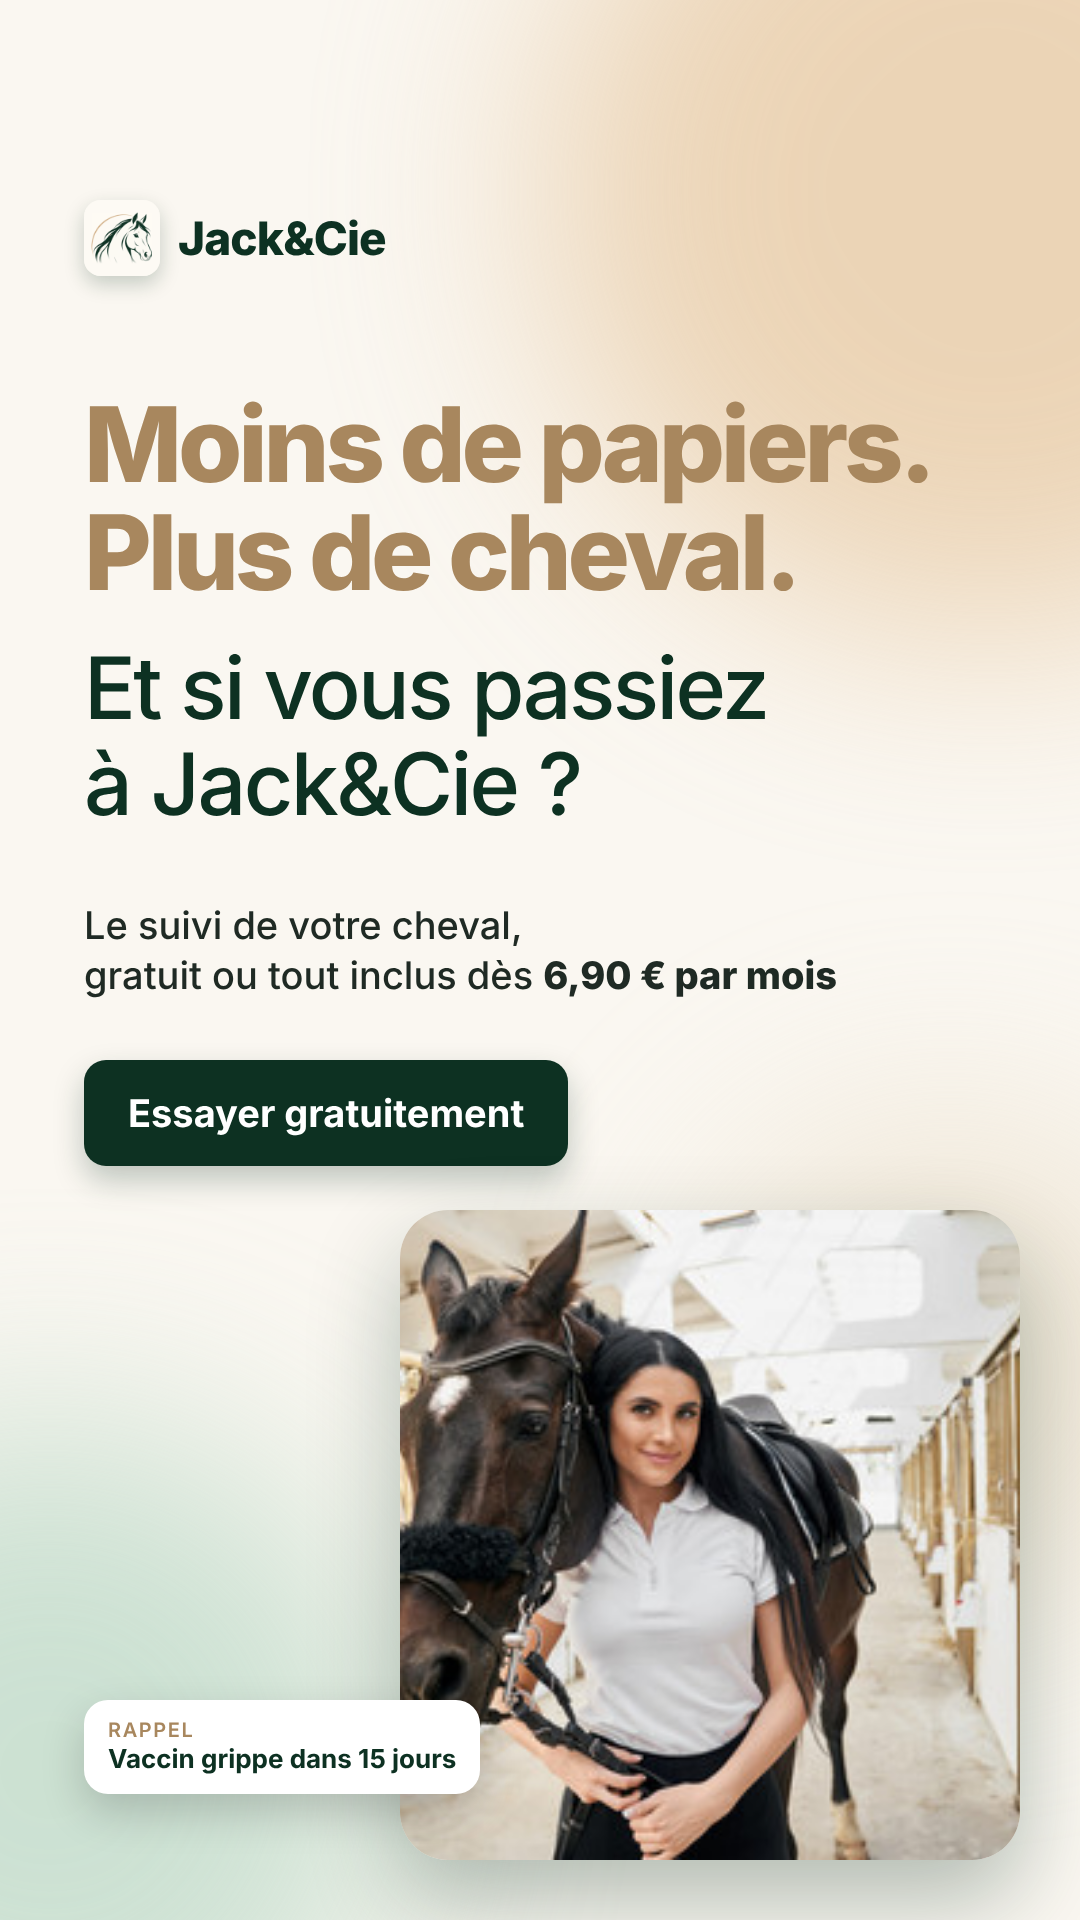
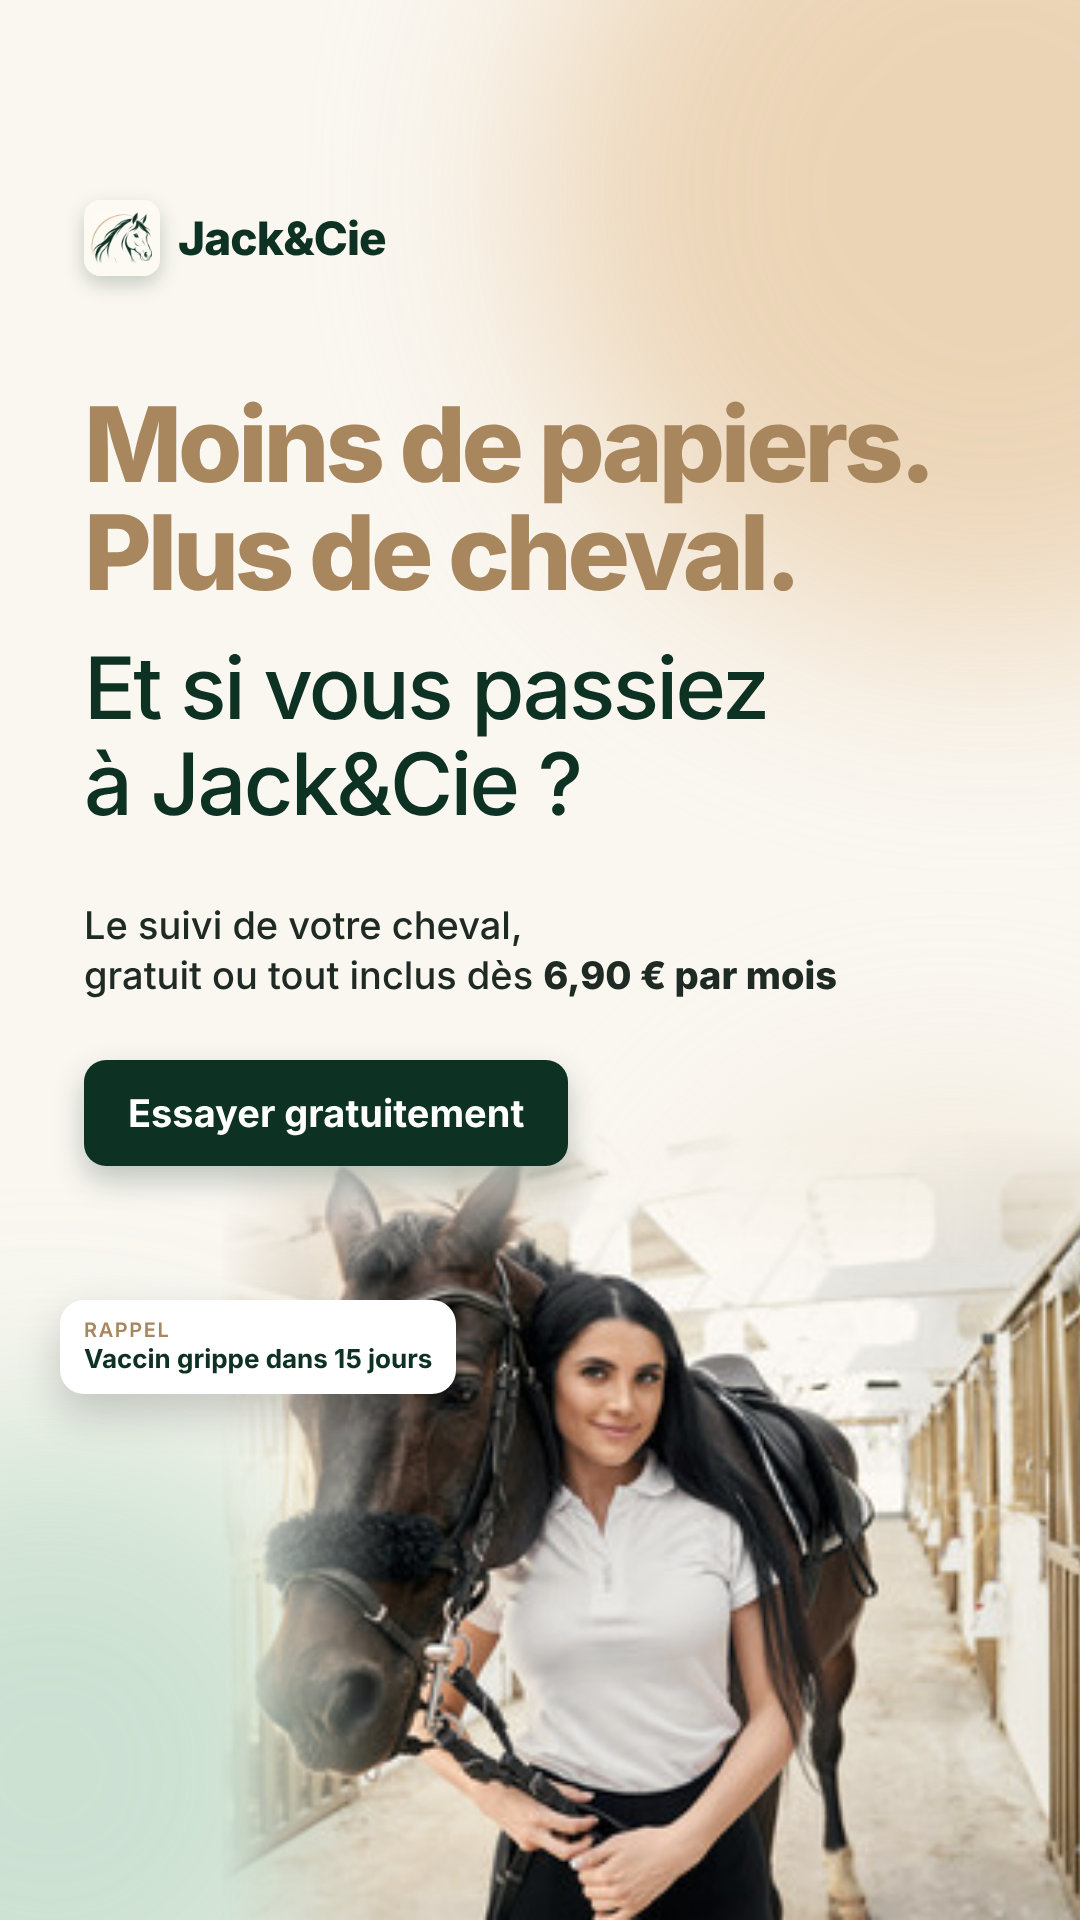
Publicité story : photo fondue dans le décor, en pied de page
Claude-Session: https://claude.ai/code/session_01YS52qRTAo68d5DCTyb9ce7

Changed region(s): [[0.0611, 0.5938, 1.0, 1.0]]

diff --git a/scripts/pub-story/story.html b/scripts/pub-story/story.html
@@ -16,10 +16,10 @@ h2{position:absolute;left:84px;top:640px;font-weight:500;font-size:86px;line-hei
 .notch{position:absolute;left:50%;top:26px;width:110px;height:30px;margin-left:-55px;border-radius:16px;background:#0b0f0d}
 .badge{position:absolute;left:530px;top:1330px;padding:18px 24px;border-radius:24px;background:#fff;box-shadow:0 18px 44px rgba(0,0,0,.18);font-size:26px;font-weight:700;line-height:1.25;z-index:2}
 .badge small{display:block;font-size:20px;font-weight:600;color:#a8875e;letter-spacing:.08em;text-transform:uppercase}
-.photo{display:none;position:absolute;right:60px;top:1210px;width:620px;height:650px;border-radius:48px;overflow:hidden;box-shadow:0 40px 90px rgba(13,49,34,.3)}
-.photo img{width:100%;height:100%;object-fit:cover;object-position:62% 40%;display:block}
+.photo{display:none;position:absolute;right:0;bottom:0;width:860px;height:790px;-webkit-mask-image:linear-gradient(to right,transparent 0,#000 20%),linear-gradient(to bottom,transparent 0,#000 18%);-webkit-mask-composite:source-in;mask-composite:intersect}
+.photo img{width:100%;height:100%;object-fit:cover;object-position:58% 35%;display:block;filter:saturate(.95) sepia(.08)}
 body.photo-mode .photo{display:block}body.photo-mode .phone{display:none}
-body.photo-mode .badge{left:84px;top:1700px}
+body.photo-mode .badge{left:60px;top:1300px}body.photo-mode .cta{z-index:2}
 body.photo-mode .sub{top:900px;width:900px}body.photo-mode .cta{top:1060px}
 </style></head><body><script>if(location.hash==="#photo")document.body.classList.add("photo-mode")</script>
 <div class="glow" style="width:900px;height:900px;right:-360px;top:-260px;background:#e7c9a3;opacity:.75"></div>
